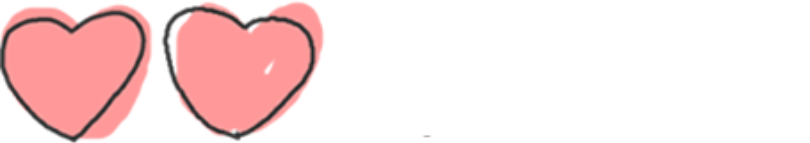
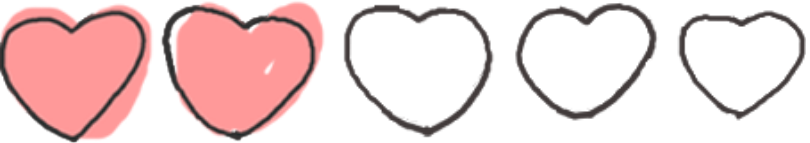
headerのUIスタイル調整中

diff --git a/style.css b/style.css
@@ -44,12 +44,11 @@ body {
   font-family: impact, MS-gothic;
   background-color: gray;
   overflow: hidden; /* 検証画面のスクロールバーを出現させない */
-  border: 4px solid #2d100752;
 }
 .screen {
   width: 100%;
   height: 100%;
-  transition: opacity 3s ease;
+  max-width: 1080px;
 }
 .none {
   display: none;
@@ -107,30 +106,40 @@ body {
   position: absolute;
   top: 0;
   left: 0;
-  aspect-ratio: 210/1080;
-  max-height: 12vh;
-  width: 100%;
   background-color: #f1ec7e;
+  width: 100%;
+  max-height: 235px;
+  aspect-ratio: 1080 / 235;
+  box-shadow: 0px 1.2vh #F7CA48;
+  border-radius: 0 0 1.85vw 1.85vw;
 }
 .container {
   display: flex;
-  justify-content: space-around;
+  justify-content: space-evenly;
   align-items: center;
 }
+
 .header img {
   display: inline-block;
   object-fit: contain;
   /* width: 100%; */
 }
 .box-left {
-  width: 20%;
+  aspect-ratio: 182/162;
+  width: 17%;
 }
+
 .box-center {
-  width: 42%;
+  aspect-ratio: 405/71;
+  display: flex;
+  flex-direction: column;
+  width: 37.5%;
 }
+
 .box-right {
-  width: 28%;
   height: 100%;
+  aspect-ratio: 558/384;
+  width: 26%;
 }
 .box-right-bg {
   position: relative;

diff --git a/js/HeaderUI.js b/js/HeaderUI.js
@@ -4,7 +4,7 @@ import { GAME_STATE } from './index.js';
 const IMAGES = new Images();
 const IMG = {
   icon: [IMAGES.icon_0, IMAGES.icon_1, IMAGES.icon_2, IMAGES.icon_3],
-  life: [null, IMAGES.life_1, IMAGES.life_2, IMAGES.life_3, IMAGES.life_4, IMAGES.life_5], // nullは無効な値
+  life: [IMAGES.life_0, IMAGES.life_1, IMAGES.life_2, IMAGES.life_3, IMAGES.life_4, IMAGES.life_5], // nullは無効な値
   num_now: [IMAGES.num_now_0, IMAGES.num_now_1, IMAGES.num_now_2, IMAGES.num_now_3, IMAGES.num_now_4, IMAGES.num_now_5, IMAGES.num_now_6, IMAGES.num_now_7, IMAGES.num_now_8, IMAGES.num_now_9],
   num_max: [IMAGES.num_max_0, IMAGES.num_max_1, IMAGES.num_max_2, IMAGES.num_max_3, IMAGES.num_max_4, IMAGES.num_max_5, IMAGES.num_max_6, IMAGES.num_max_7, IMAGES.num_max_8, IMAGES.num_max_9],
   num_score: [IMAGES.num_score_0, IMAGES.num_score_1, IMAGES.num_score_2, IMAGES.num_score_3, IMAGES.num_score_4, IMAGES.num_score_5, IMAGES.num_score_6, IMAGES.num_score_7, IMAGES.num_score_8, IMAGES.num_score_9]

diff --git a/index.html b/index.html
@@ -12,12 +12,12 @@
 <body>
 
   <!-- タイトル画面 -->
-  <div id="title" class="screen" style="display: flex;">
+  <div id="title" class="screen" style="display: none;">
     <button id="title-btn"></button>
   </div>
 
   <!-- プレイ画面 -->
-  <div id="play" class="screen bg-01" style="display: none;">
+  <div id="play" class="screen bg-01" style="display: flex;">
     <div id="header" class="header">
       <div class="container">
         <div class="box-left">

diff --git a/js/GameState.js b/js/GameState.js
@@ -14,7 +14,7 @@ class GameState {
     this.over = false;
     this.clear = false;
     this.toOver = false;//ライフ0になってからゲームオーバーまでの間かどうか
-    this.state = 0;//0:通常, 1:hit, 2:ダウン, 3:appleTime
+    this.state = 3;//0:通常, 1:hit, 2:ダウン, 3:appleTime
     this.maxBananas = 20;//ステージクリア目標数
     this.currentBananas = 0;
     this.maxLife = 5;//最大ライフ数

diff --git a/js/Images.js b/js/Images.js
@@ -5,6 +5,7 @@ class Images {
     this.icon_1 = this.loadImage("images/icon_1@2x.png");
     this.icon_2 = this.loadImage("images/icon_2@2x.png");
     this.icon_3 = this.loadImage("images/icon_3@2x.png");
+    this.life_0 = this.loadImage("images/life_0@2x.png");
     this.life_1 = this.loadImage("images/life_1@2x.png");
     this.life_2 = this.loadImage("images/life_2@2x.png");
     this.life_3 = this.loadImage("images/life_3@2x.png");

diff --git a/js/main.js b/js/main.js
@@ -127,12 +127,10 @@ function toClear() {//ゲームクリア移行処理
 function resetScene() {//全シーンを非表示
   Object.values(scenes).forEach(el => {
     el.style.display = 'none';
-    el.style.opacity = '0';
   });
 }
 function showScene(num) {//指定のシーンを表示
   scenes[num].style.display = 'flex';
-  scenes[num].style.opacity = '1';
   
 }
 function setScene(num) {//シーンをセット

diff --git a/js/Sounds.js b/js/Sounds.js
@@ -8,8 +8,8 @@ class Sounds {
     this.move = new Audio('sound/move_02.mp3');
     this.scream = new Audio('sound/dawn_02.mp3');
 
-    this.setVolumeBGM(0.6);
-    this.setVolumeSE(0.1);
+    this.setVolumeBGM(0.8);
+    this.setVolumeSE(0.4);
   }
 
   // 全SEのヴォリュームを一括設定するメソッド
